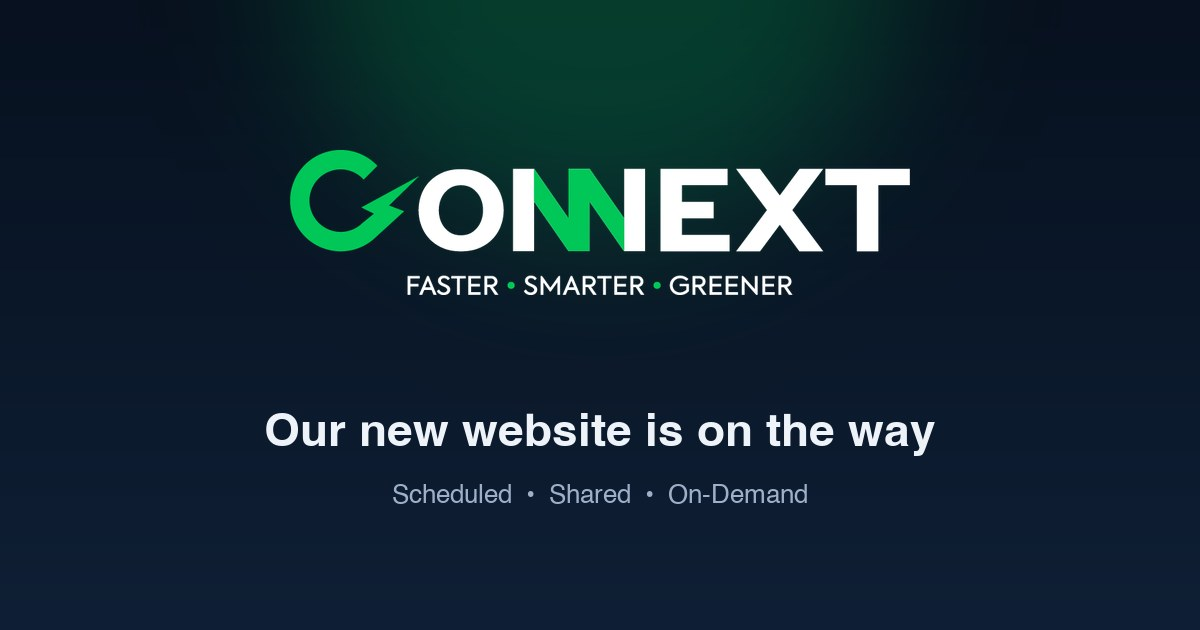
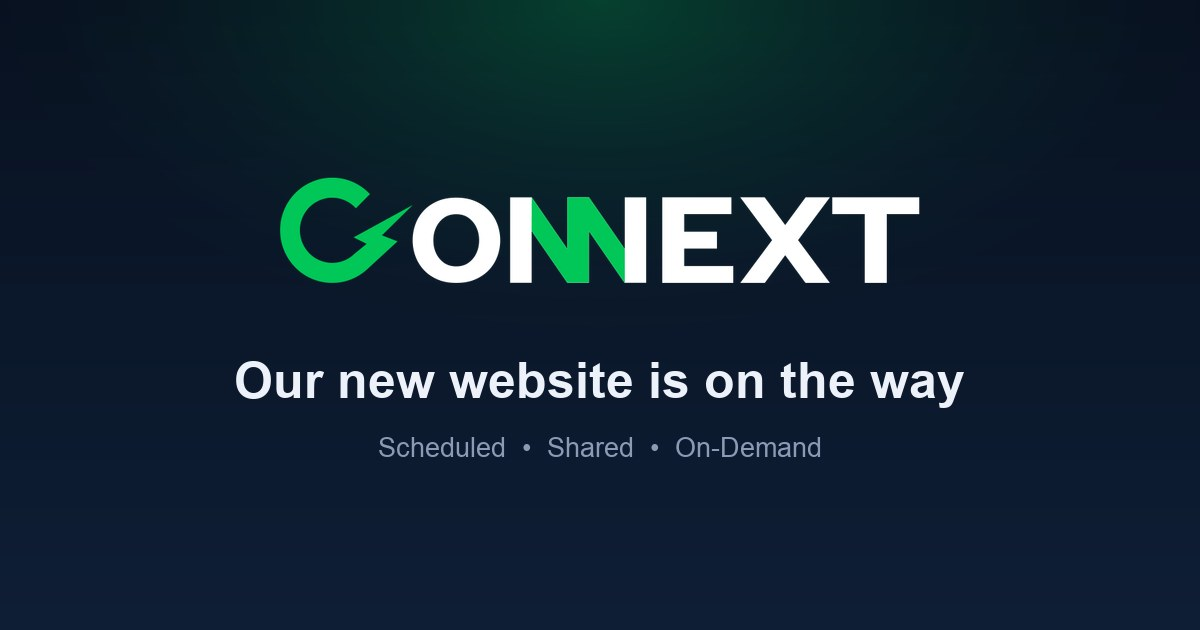
Remove the "Faster, smarter, greener" tagline
The footer now uses the plain Connext logo, the unused tagline logo file is
deleted, and the share-preview image is rebuilt without the tagline.

diff --git a/site/index.html b/site/index.html
@@ -152,7 +152,7 @@
     <div class="wrap">
       <div class="footer__grid">
         <div class="footer__brand">
-          <img src="assets/img/logo-tagline.png" alt="Connext. Faster, smarter, greener." width="866" height="202" loading="lazy" decoding="async">
+          <img src="assets/img/logo.png" alt="Connext" width="867" height="143" loading="lazy" decoding="async">
           <p>Smarter logistics. Every trip counts.</p>
         </div>
         <div class="footer__col">
